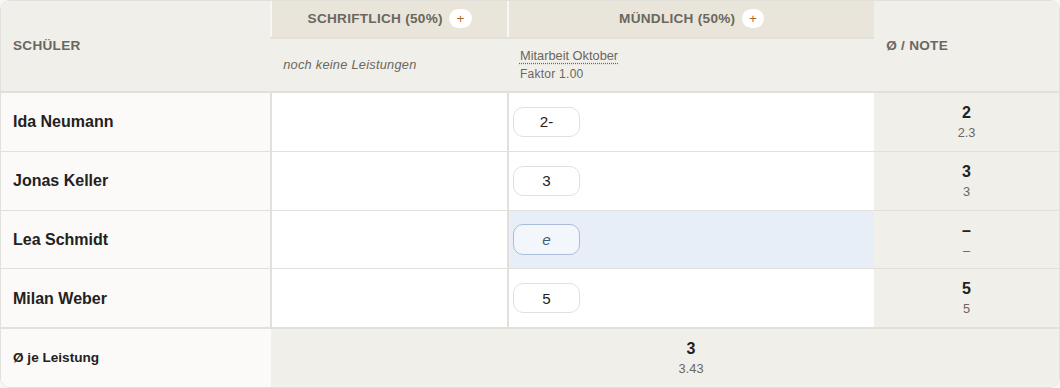
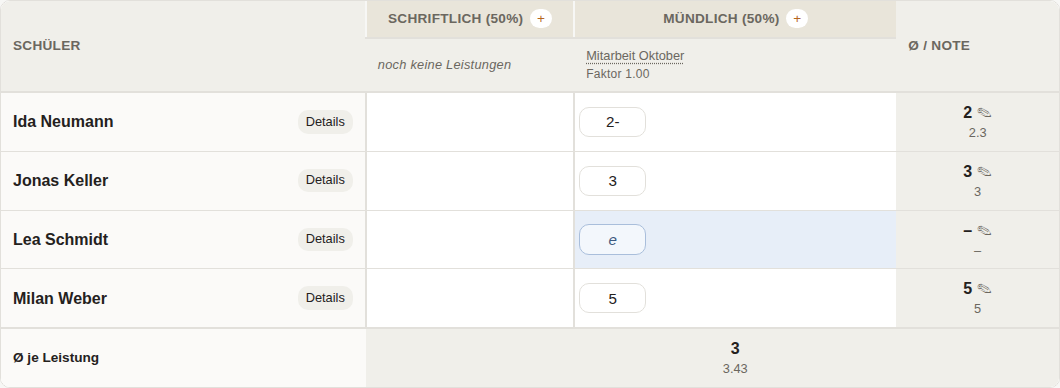
feat(grid): add "Details" and ✎ buttons to reach the student page
Nothing showed that a student's name opens their page, so the Zeugnisnote panel there was hard to find. A "Details" button now replaces the name link, and a ✎ at each final grade opens the student page with the matching Zeugnisnote field focused.

diff --git a/src/main/resources/templates/GridPage/gridHalfYear.html b/src/main/resources/templates/GridPage/gridHalfYear.html
@@ -89,7 +89,7 @@
             <tbody>
                 {#for row in rows}
                     <tr>
-                        <td class="student-cell"><a href="/subjects/{subject.id}/grid/students/{row.student.id}" title="Alle Leistungen und was noch nötig ist">{row.student.effectiveName}</a></td>
+                        <td class="student-cell"><div class="student-cell-inner"><span>{row.student.effectiveName}</span><a class="btn secondary student-details" href="/subjects/{subject.id}/grid/students/{row.student.id}" title="Alle Leistungen, Zeugnisnote und was noch nötig ist">Details</a></div></td>
                         {#if !undatedColumns.isEmpty}
                             {#for cell in row.undatedCells}
                                 <td class="grade-cell {#if cell.categoryStart}category-start{/if}{#if cell.open} grade-cell-open{/if}{#if cell.absence} grade-cell-absent{/if}"{#if cell.due} data-due="true"{/if}>
@@ -136,7 +136,7 @@
                         {/for}
                         <td class="average-cell{#if row.h1ReportGrade} has-report-grade{/if}">
                             {#if row.h1ReportGrade}<span class="report-grade" title="Zeugnisnote, von Hand festgelegt (durchgestrichen: berechnet)">{row.h1ReportGrade}</span>{/if}
-                            <span class="average-final" data-student-id="{row.student.id}" data-scope="h1">{row.h1DisplayLabel ?: '–'}</span>
+                            <span class="average-final" data-student-id="{row.student.id}" data-scope="h1">{row.h1DisplayLabel ?: '–'}</span><a class="report-grade-edit no-print" href="/subjects/{subject.id}/grid/students/{row.student.id}?zeugnisnote=firstHalf" title="Zeugnisnote 1. Halbjahr festlegen" aria-label="Zeugnisnote 1. Halbjahr für {row.student.effectiveName} festlegen">✎</a>
                             <span class="raw-average average-raw" data-student-id="{row.student.id}" data-scope="h1">{row.h1RawAverage ?: '–'}</span>
                         </td>
                         {#for cell in row.h2Cells}
@@ -166,7 +166,7 @@
                         </td>
                         <td class="average-cell{#if row.jahrReportGrade} has-report-grade{/if}">
                             {#if row.jahrReportGrade}<span class="report-grade" title="Zeugnisnote, von Hand festgelegt (durchgestrichen: berechnet)">{row.jahrReportGrade}</span>{/if}
-                            <span class="average-final" data-student-id="{row.student.id}" data-scope="jahr">{row.jahrFinalGrade ?: '–'}</span>
+                            <span class="average-final" data-student-id="{row.student.id}" data-scope="jahr">{row.jahrFinalGrade ?: '–'}</span><a class="report-grade-edit no-print" href="/subjects/{subject.id}/grid/students/{row.student.id}?zeugnisnote=year" title="Zeugnisnote Jahr festlegen" aria-label="Zeugnisnote Jahr für {row.student.effectiveName} festlegen">✎</a>
                             <span class="raw-average average-raw" data-student-id="{row.student.id}" data-scope="jahr">{row.jahrRawAverage ?: '–'}</span>
                         </td>
                     </tr>
@@ -177,7 +177,7 @@
                 <tr class="left-heading"><th>Ausgetreten – nur lesend</th><th colspan="{#if undatedColumns.isEmpty}{leftRows.get(0).h1Cells.size + leftRows.get(0).h2Cells.size + 3}{#else}{leftRows.get(0).undatedCells.size + leftRows.get(0).h1Cells.size + leftRows.get(0).h2Cells.size + 3}{/if}"></th></tr>
                 {#for row in leftRows}
                 <tr>
-                    <td class="student-cell"><a href="/subjects/{subject.id}/grid/students/{row.student.id}">{row.student.effectiveName}</a></td>
+                    <td class="student-cell"><div class="student-cell-inner"><span>{row.student.effectiveName}</span><a class="btn secondary student-details" href="/subjects/{subject.id}/grid/students/{row.student.id}">Details</a></div></td>
                     {#if !undatedColumns.isEmpty}{#include GridPage/readonlyCells cells=row.undatedCells /}{/if}
                     {#include GridPage/readonlyCells cells=row.h1Cells /}
                     <td class="average-cell{#if row.h1ReportGrade} has-report-grade{/if}">{#if row.h1ReportGrade}<span class="report-grade" title="Zeugnisnote, von Hand festgelegt (durchgestrichen: berechnet)">{row.h1ReportGrade}</span>{/if}<span class="average-final">{row.h1DisplayLabel ?: '–'}</span><span class="raw-average">{row.h1RawAverage ?: '–'}</span></td>
@@ -235,7 +235,7 @@
         e / u: abwesend entschuldigt / unentschuldigt, allein oder neben der Note (z. B. „6 u“) – ändert die Note nicht ·
         Tab / Shift+Tab: nächste/vorherige Zelle · Enter / Shift+Enter: Zelle darunter/darüber ·
         Pfeiltasten: Navigation · Komma oder Punkt als Dezimaltrennzeichen (z. B. 2,3) ·{#if subject.gradeScale.tendencyStep} 2- / 2+: Note mit Tendenz ·{/if}
-        Zelle leeren + verlassen löscht die Note. Name eines Schülers anklicken: seine Seite, dort lässt sich die Zeugnisnote von Hand festlegen (die berechnete steht dann durchgestrichen daneben). Punktebasierte Leistungen: Punktzahl eingeben,
+        Zelle leeren + verlassen löscht die Note. „Details“: die Seite des Schülers mit allen Leistungen. ✎ an der Endnote: dort die Zeugnisnote von Hand festlegen (die berechnete steht dann durchgestrichen daneben). Punktebasierte Leistungen: Punktzahl eingeben,
         die Note wird automatisch nach dem Notenschlüssel berechnet und angezeigt (z. B. „65 → 1").
         1. HJ / 2. HJ: Durchschnitt nur aus den Leistungen des jeweiligen Halbjahres · Jahr: wie gewohnt über alle Leistungen.
     </p>

diff --git a/src/main/resources/templates/GridPage/grid.html b/src/main/resources/templates/GridPage/grid.html
@@ -47,7 +47,7 @@
             <tbody>
                 {#for row in rows}
                     <tr>
-                        <td class="student-cell"><a href="/subjects/{subject.id}/grid/students/{row.student.id}" title="Alle Leistungen und was noch nötig ist">{row.student.effectiveName}</a></td>
+                        <td class="student-cell"><div class="student-cell-inner"><span>{row.student.effectiveName}</span><a class="btn secondary student-details" href="/subjects/{subject.id}/grid/students/{row.student.id}" title="Alle Leistungen, Zeugnisnote und was noch nötig ist">Details</a></div></td>
                         {#for cell in row.cells}
                             <td class="grade-cell {#if cell.categoryStart}category-start{/if}{#if cell.open} grade-cell-open{/if}{#if cell.absence} grade-cell-absent{/if}"{#if cell.due} data-due="true"{/if}>
                                 {#if cell.assessmentId}
@@ -80,7 +80,7 @@
                         {/for}
                         <td class="average-cell{#if row.reportGrade} has-report-grade{/if}">
                             {#if row.reportGrade}<span class="report-grade" title="Zeugnisnote, von Hand festgelegt (durchgestrichen: berechnet)">{row.reportGrade}</span>{/if}
-                            <span class="average-final" data-student-id="{row.student.id}" data-scope="jahr">{row.finalGrade ?: '–'}</span>
+                            <span class="average-final" data-student-id="{row.student.id}" data-scope="jahr">{row.finalGrade ?: '–'}</span><a class="report-grade-edit no-print" href="/subjects/{subject.id}/grid/students/{row.student.id}?zeugnisnote=year" title="Zeugnisnote Jahr festlegen" aria-label="Zeugnisnote Jahr für {row.student.effectiveName} festlegen">✎</a>
                             <span class="raw-average average-raw" data-student-id="{row.student.id}" data-scope="jahr">{row.rawAverage ?: '–'}</span>
                         </td>
                     </tr>
@@ -91,7 +91,7 @@
                 <tr class="left-heading"><th>Ausgetreten – nur lesend</th><th colspan="{leftRows.get(0).cells.size + 1}"></th></tr>
                 {#for row in leftRows}
                 <tr>
-                    <td class="student-cell"><a href="/subjects/{subject.id}/grid/students/{row.student.id}">{row.student.effectiveName}</a></td>
+                    <td class="student-cell"><div class="student-cell-inner"><span>{row.student.effectiveName}</span><a class="btn secondary student-details" href="/subjects/{subject.id}/grid/students/{row.student.id}">Details</a></div></td>
                     {#include GridPage/readonlyCells cells=row.cells /}
                     <td class="average-cell{#if row.reportGrade} has-report-grade{/if}">
                         {#if row.reportGrade}<span class="report-grade" title="Zeugnisnote, von Hand festgelegt (durchgestrichen: berechnet)">{row.reportGrade}</span>{/if}
@@ -125,7 +125,7 @@
         e / u: abwesend entschuldigt / unentschuldigt, allein oder neben der Note (z. B. „6 u“) – ändert die Note nicht ·
         Tab / Shift+Tab: nächste/vorherige Zelle · Enter / Shift+Enter: Zelle darunter/darüber ·
         Pfeiltasten: Navigation · Komma oder Punkt als Dezimaltrennzeichen (z. B. 2,3) ·{#if subject.gradeScale.tendencyStep} 2- / 2+: Note mit Tendenz ·{/if}
-        Zelle leeren + verlassen löscht die Note. Name eines Schülers anklicken: seine Seite, dort lässt sich die Zeugnisnote von Hand festlegen (die berechnete steht dann durchgestrichen daneben). Punktebasierte Leistungen: Punktzahl eingeben,
+        Zelle leeren + verlassen löscht die Note. „Details“: die Seite des Schülers mit allen Leistungen. ✎ an der Endnote: dort die Zeugnisnote von Hand festlegen (die berechnete steht dann durchgestrichen daneben). Punktebasierte Leistungen: Punktzahl eingeben,
         die Note wird automatisch nach dem Notenschlüssel berechnet und angezeigt (z. B. „65 → 1").
     </p>
 {/if}

diff --git a/src/main/resources/META-INF/resources/static/css/notenfuchs.css b/src/main/resources/META-INF/resources/static/css/notenfuchs.css
@@ -666,8 +666,6 @@ table.grade-grid td.status-cell.status-open { color: var(--color-primary-dark); 
 .assessment-dialog-preview { margin-top: 0.5rem; }
 
 /* Student page in a Fach (GridPage/student.html). */
-table.grade-grid td.student-cell a { color: inherit; }
-table.grade-grid td.student-cell a:hover { color: var(--color-primary); }
 .student-page-heading { display: flex; flex-wrap: wrap; align-items: center; justify-content: space-between; gap: 0.5rem 1rem; }
 .student-page-heading .no-print { display: flex; align-items: center; gap: 1rem; }
 .student-averages { max-width: 28rem; }
@@ -703,3 +701,10 @@ table.distribution th, table.distribution td { white-space: nowrap; }
 table.distribution .count { text-align: center; font-variant-numeric: tabular-nums; }
 table.distribution td.zero { color: var(--color-text-muted); }
 table.distribution tr.group-heading th { text-transform: none; letter-spacing: 0; color: var(--color-text); }
+
+/* Grid student column: the name, and a visible "Details" button for the student's page. */
+.student-cell-inner { display: flex; align-items: center; justify-content: space-between; gap: 0.75rem; }
+.student-cell-inner .student-details { padding: 0.15rem 0.5rem; font-size: 0.8rem; font-weight: 400; }
+/* ✎ next to a final grade: opens the student page at "Zeugnisnote festlegen". */
+td.average-cell .report-grade-edit { margin-left: 0.3rem; font-weight: 400; color: var(--color-text-muted); text-decoration: none; }
+td.average-cell .report-grade-edit:hover { color: var(--color-primary); }

diff --git a/src/main/resources/templates/GridPage/student.html b/src/main/resources/templates/GridPage/student.html
@@ -29,19 +29,19 @@
     </table>
 
 {#if !student.leftOn}
-<details class="add-panel no-print"{#if firstHalfReportGrade || yearReportGrade || reportGradeError} open{/if}>
+<details class="add-panel no-print" id="zeugnisnote"{#if firstHalfReportGrade || yearReportGrade || reportGradeError || focusReportGrade} open{/if}>
     <summary>Zeugnisnote festlegen</summary>
     <div class="card">
         <form class="inline-form" method="post" action="/subjects/{subject.id}/grid/students/{student.id}/report-grades">
             {#if hasHalfYear}
             <div class="form-field">
                 <label for="reportGradeFirstHalf">1. Halbjahr</label>
-                <input type="text" id="reportGradeFirstHalf" name="firstHalf" value="{firstHalfReportGrade ?: ''}" placeholder="berechnet">
+                <input type="text" id="reportGradeFirstHalf" name="firstHalf" value="{firstHalfReportGrade ?: ''}" placeholder="berechnet"{#if focusReportGrade == 'firstHalf'} autofocus{/if}>
             </div>
             {/if}
             <div class="form-field">
                 <label for="reportGradeYear">Jahr</label>
-                <input type="text" id="reportGradeYear" name="year" value="{yearReportGrade ?: ''}" placeholder="berechnet">
+                <input type="text" id="reportGradeYear" name="year" value="{yearReportGrade ?: ''}" placeholder="berechnet"{#if focusReportGrade == 'year'} autofocus{/if}>
             </div>
             <button type="submit">Speichern</button>
         </form>

diff --git a/src/main/java/de/notenfuchs/web/StudentPageResource.java b/src/main/java/de/notenfuchs/web/StudentPageResource.java
@@ -83,7 +83,8 @@ public class StudentPageResource {
                                         @PathParam("studentId") Long studentId,
                                         @QueryParam("category") Long categoryId,
                                         @QueryParam("factor") BigDecimal factor,
-                                        @QueryParam("reportGradeError") String reportGradeError) {
+                                        @QueryParam("reportGradeError") String reportGradeError,
+                                        @QueryParam("zeugnisnote") String focusReportGrade) {
         String currentSubject = currentUser.effectiveSubject();
         Subject subject = guard.requireTeachesSubject(id, currentSubject);
         Student student = requireStudentOfSubject(studentId, subject, currentSubject);
@@ -169,7 +170,10 @@ public class StudentPageResource {
                 .data("hasHalfYear", cutoff != null)
                 .data("firstHalfReportGrade", firstHalfReportGrade)
                 .data("yearReportGrade", yearReportGrade)
-                .data("reportGradeError", reportGradeMessage(reportGradeError, subject.gradeScale)));
+                .data("reportGradeError", reportGradeMessage(reportGradeError, subject.gradeScale))
+                // The grid's ✎ links here with the period whose field should get the cursor.
+                .data("focusReportGrade", "firstHalf".equals(focusReportGrade) && cutoff != null ? "firstHalf"
+                        : focusReportGrade != null ? "year" : null));
     }
 
     /**
@@ -199,15 +203,15 @@ public class StudentPageResource {
             yearValue = parseReportGrade(year, subject.gradeScale);
             firstHalfValue = hasHalfYear ? parseReportGrade(firstHalf, subject.gradeScale) : null;
         } catch (NumberFormatException e) {
-            return Redirects.seeOther(page + "?reportGradeError=invalid").build();
+            return Redirects.seeOther(page + "?reportGradeError=invalid#zeugnisnote").build();
         }
         if ((yearValue != null && !subject.gradeScale.contains(yearValue))
                 || (firstHalfValue != null && !subject.gradeScale.contains(firstHalfValue))) {
-            return Redirects.seeOther(page + "?reportGradeError=range").build();
+            return Redirects.seeOther(page + "?reportGradeError=range#zeugnisnote").build();
         }
         // "Jahr" is always a whole grade, the same as the computed one.
         if (yearValue != null && yearValue.stripTrailingZeros().scale() > 0) {
-            return Redirects.seeOther(page + "?reportGradeError=whole").build();
+            return Redirects.seeOther(page + "?reportGradeError=whole#zeugnisnote").build();
         }
 
         storeReportGrade(subject, student, ReportGrade.Period.YEAR, yearValue);

diff --git a/src/test/java/de/notenfuchs/e2e/WalkthroughIT.java b/src/test/java/de/notenfuchs/e2e/WalkthroughIT.java
@@ -176,7 +176,9 @@ class WalkthroughIT {
         assertThat(page.locator(".assessment-average-raw")).hasText("3.43");
         shotOf("alltag-noten-eintragen", page.locator(".grid-wrapper"));
 
-        clickLink("Jonas Keller");
+        record();
+        page.locator("table.grade-grid tr").filter(new Locator.FilterOptions().setHasText("Jonas Keller"))
+                .getByRole(AriaRole.LINK, new Locator.GetByRoleOptions().setName("Details")).click();
         assertThat(page.locator("h2").first()).containsText("Jonas Keller");
         shot("alltag-schuelerseite");
 
@@ -257,8 +259,9 @@ class WalkthroughIT {
         assertThat(page.locator("#assessmentDate")).hasValue(expectedDate);
         page.locator("#assessment-dialog .assessment-dialog-cancel").click();
 
-        clickLink("Jonas Keller");
-        AddPanels.open(page, "Zeugnisnote festlegen");
+        // The ✎ at the half-year grade opens the student page with the cursor in that field.
+        clickLink("Zeugnisnote 1. Halbjahr für Jonas Keller festlegen");
+        assertThat(page.locator("#reportGradeFirstHalf")).isFocused();
         page.locator("#reportGradeFirstHalf").fill("2-");
         page.locator("#reportGradeYear").fill("2");
         page.locator(".student-grades").getByRole(AriaRole.BUTTON,

diff --git a/src/test/java/de/notenfuchs/web/ReportGradeIT.java b/src/test/java/de/notenfuchs/web/ReportGradeIT.java
@@ -86,9 +86,9 @@ class ReportGradeIT {
     void reportGrade_rejectsBadInputAndClearsWhenEmpty() throws Exception {
         Fixture f = fixture();
 
-        assertTrue(location(setReportGrades(f, Map.of("year", "2-"))).endsWith("reportGradeError=whole"));
-        assertTrue(location(setReportGrades(f, Map.of("year", "7"))).endsWith("reportGradeError=range"));
-        assertTrue(location(setReportGrades(f, Map.of("year", "gut"))).endsWith("reportGradeError=invalid"));
+        assertTrue(location(setReportGrades(f, Map.of("year", "2-"))).endsWith("reportGradeError=whole#zeugnisnote"));
+        assertTrue(location(setReportGrades(f, Map.of("year", "7"))).endsWith("reportGradeError=range#zeugnisnote"));
+        assertTrue(location(setReportGrades(f, Map.of("year", "gut"))).endsWith("reportGradeError=invalid#zeugnisnote"));
         assertNull(reportGrade(f, ReportGrade.Period.YEAR));
 
         setReportGrades(f, Map.of("year", "3"));

diff --git a/CLAUDE.md b/CLAUDE.md
@@ -62,7 +62,7 @@ GradeScale (min, max, lowerIsBetter, atRiskFrom, tendencyStep) — shared refere
 - **Points are never converted and stored.** A points-based grade is derived live by `PointsConversionService` (linear interpolation between bands, extrapolated beyond, clamped only at the scale; rounded to one decimal per the Leistung's rounding mode). New points Leistungen get default bands 60 → best, 20 → worst. Switching points mode clears grades but keeps absence marks.
 - **No freezing.** No locks, archives or snapshots. Half-year cutoff and half-grade display only change how the same data is shown. "Jahr" is always a whole grade. Verhaltensnoten have no H1/H2. "Ins neue Schuljahr übernehmen" copies Fächer, categories and active students, never Leistungen or grades; the source class stays editable.
 - **Typed grades** go through `GradeScale#parseGrade` and back out through `#format`: "2-"/"2+" is the whole grade ∓ `tendencyStep` ("+" is always the better side), and a stored 2.3 shows as "2-". Points are plain numbers.
-- **Zeugnisnote** (`ReportGrade`) replaces the computed final grade for display, at-risk and export, but never feeds `GradeService`; the computed grade stays visible, struck through. "Jahr" must be a whole grade; "1. Halbjahr" only exists with a cutoff. The class export's Fach sheets end with "Zeugnisnote" columns (set or computed).
+- **Zeugnisnote** (`ReportGrade`) replaces the computed final grade for display, at-risk and export, but never feeds `GradeService`; the computed grade stays visible, struck through. "Jahr" must be a whole grade; "1. Halbjahr" only exists with a cutoff. The class export's Fach sheets end with "Zeugnisnote" columns (set or computed). It is set on the student page; the grid's ✎ links there with `?zeugnisnote=year|firstHalf` to open the panel with that field focused (no `#anchor` on that link: browsers skip `autofocus` when the URL has one).
 - **Absence mark** (`e`/`u` typed in a cell, alone or next to the grade) never changes a grade and never derives one. A marked cell is not "offen". xlsx keeps grades numeric and writes a mark without grade as its letter.
 - **"Offen"** = empty cell of a Leistung whose date has come (`OpenGrades#isDue`; undated never). Highlighted in the grid; counted on the home page and in the Notenübersicht. No per-column count in the grid footer.
 - **Students who left** (`leftOn`): grades kept, shown read-only below the active rows (grids, overview, class page list), excluded from column averages, "offen" counts, at-risk summary, roster export and the school-year copy; cell saves refuse them (400). xlsx lists them last, marked "(ausgetreten)".

diff --git a/README.md b/README.md
@@ -693,10 +693,10 @@ kein Node-Build-Schritt.
   `e` / `u` in einer Zelle vermerkt „abwesend entschuldigt / unentschuldigt“ – allein
   (zählt dann nicht als fehlend) oder neben der Note (z. B. `6 u`); die Note selbst
   ändert sich dadurch nie. Noten mit Tendenz lassen sich als `2-` / `2+` eintippen
-  (zählt als 2,3 / 1,7, je nach `tendency_step` der Skala). Ein Klick auf einen
+  (zählt als 2,3 / 1,7, je nach `tendency_step` der Skala). „Details“ neben einem
   Schülernamen öffnet seine Seite im Fach
   (`/subjects/{id}/grid/students/{studentId}`): alle Leistungen, die Durchschnitte,
-  „Zeugnisnote festlegen“ und „Was braucht … in der nächsten Leistung?“ – druckbar,
+  „Zeugnisnote festlegen“ (direkt dorthin führt der Stift ✎ an der Endnote im Raster) und „Was braucht … in der nächsten Leistung?“ – druckbar,
   z. B. fürs Elterngespräch
 - `/classes/{id}/export` - die ganze Klasse als `.xlsx`: für Klassen-Admins ein Blatt
   „Notenübersicht“ mit den Endnoten aller Fächer, dazu für jedes Fach, das man selbst

diff --git a/docs/anleitung/04-vor-dem-zeugnis.md b/docs/anleitung/04-vor-dem-zeugnis.md
@@ -19,9 +19,9 @@ schlägt deshalb ein Datum in diesem Halbjahr vor.
 ## Zeugnisnote festlegen
 
 Manchmal soll auf dem Zeugnis eine andere Note stehen als die berechnete. Klicken Sie dazu
-in der Notentabelle auf den Namen des Schülers und auf seiner Seite auf
-**„Zeugnisnote festlegen“**. Tragen Sie die Note für das **„1. Halbjahr“** oder das
-**„Jahr“** ein und klicken auf **„Speichern“**. Die Jahresnote ist immer eine ganze Note;
+in der Notentabelle auf den Stift ✎ neben der Note im **„1. Halbjahr“** oder im **„Jahr“**.
+Die Seite des Schülers öffnet sich bei **„Zeugnisnote festlegen“**, der Cursor steht schon im
+passenden Feld. Tragen Sie die Note ein und klicken auf **„Speichern“**. Die Jahresnote ist immer eine ganze Note;
 im Halbjahr geht auch 2- oder 2,5.
 
 Die festgelegte Note gilt dann überall: in der Notentabelle, in der Notenübersicht und im

diff --git a/docs/anleitung/02-alltag.md b/docs/anleitung/02-alltag.md
@@ -42,7 +42,7 @@ Ein Klick auf den Namen einer Leistung im Tabellenkopf öffnet dasselbe Fenster.
 
 ## Ein Schüler im Fach
 
-Ein Klick auf einen Schülernamen öffnet seine Seite: alle Leistungen mit Datum und Note,
+**„Details“** rechts neben dem Namen eines Schülers öffnet seine Seite: alle Leistungen mit Datum und Note,
 die Durchschnitte und darunter, welche Note er in der nächsten Leistung braucht, um eine
 bestimmte Endnote zu erreichen. Kategorie und Faktor der nächsten Leistung wählen Sie
 selbst und klicken auf **„Berechnen“**. Mit **„Drucken“** nehmen Sie die Seite zum
